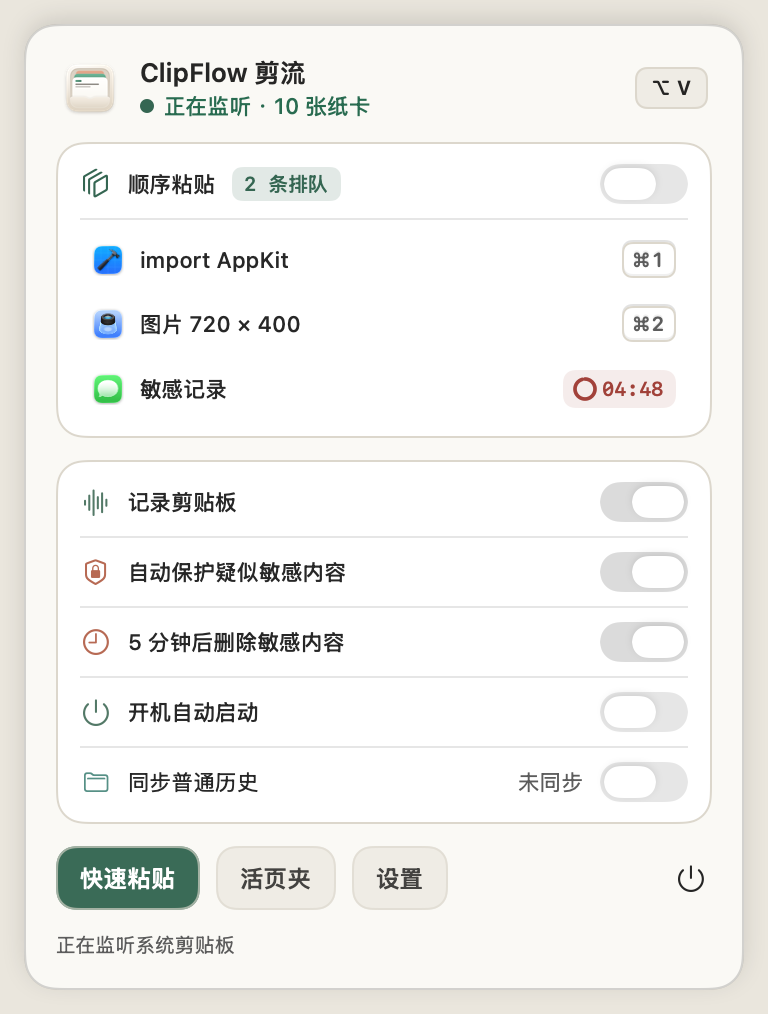
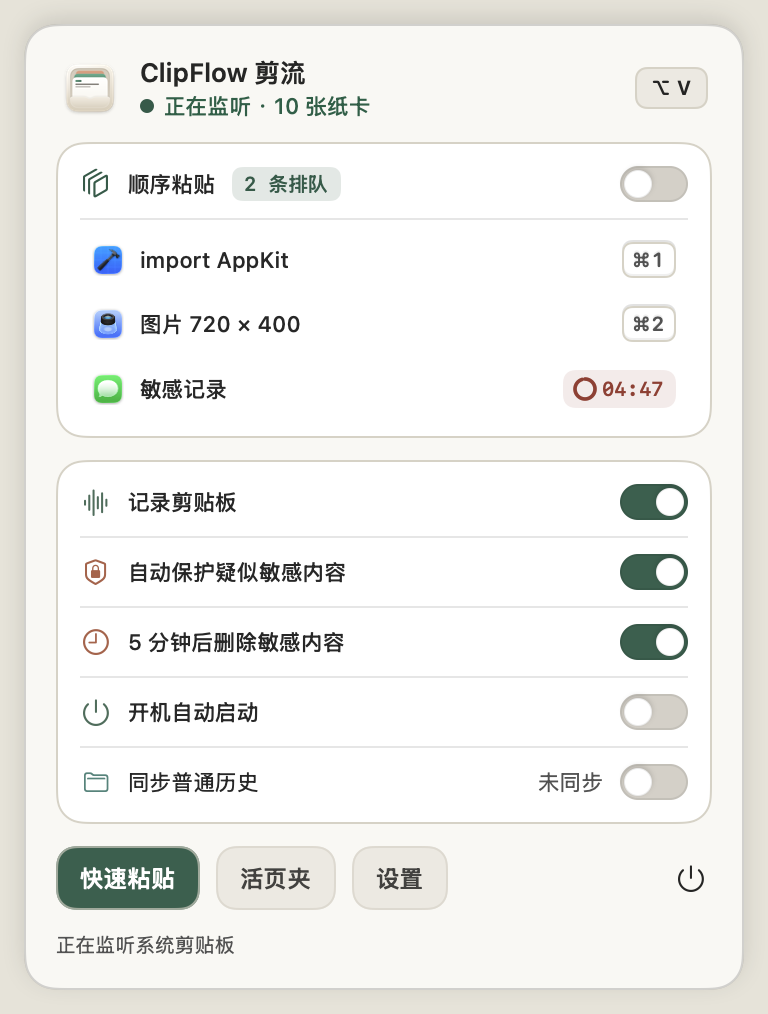
feat(ui): use Celadon Sage theme green for all switches and release v0.3.3

diff --git a/Sources/ClipFlowApp/Views/Chrome/FolioChrome.swift b/Sources/ClipFlowApp/Views/Chrome/FolioChrome.swift
@@ -108,6 +108,116 @@ private struct FolioButtonBody: View {
     }
 }
 
+// MARK: - Folio Celadon Switch Toggle Style
+
+struct FolioSwitchToggleStyle: ToggleStyle {
+    var showsLabel: Bool = false
+
+    func makeBody(configuration: Configuration) -> some View {
+        let control = Button {
+            configuration.isOn.toggle()
+        } label: {
+            EmptyView()
+        }
+        .buttonStyle(FolioSwitchTrackButtonStyle(isOn: configuration.isOn))
+        .accessibilityValue(configuration.isOn ? "开启" : "关闭")
+
+        if showsLabel {
+            HStack(spacing: 8) {
+                configuration.label
+                control
+            }
+        } else {
+            control
+        }
+    }
+}
+
+private struct FolioSwitchTrackButtonStyle: ButtonStyle {
+    let isOn: Bool
+
+    func makeBody(configuration: Configuration) -> some View {
+        FolioSwitchTrackView(isOn: isOn, isPressed: configuration.isPressed)
+    }
+}
+
+private struct FolioSwitchTrackView: View {
+    let isOn: Bool
+    let isPressed: Bool
+
+    @Environment(\.colorScheme) private var colorScheme
+    @Environment(\.accessibilityReduceMotion) private var reduceMotion
+    @Environment(\.isEnabled) private var isEnabled
+    @State private var isHovered = false
+
+    private let trackWidth: CGFloat = 34
+    private let trackHeight: CGFloat = 18
+    private let thumbInset: CGFloat = 2
+    private var thumbDiameter: CGFloat { trackHeight - thumbInset * 2 }
+
+    private var trackFill: Color {
+        isOn
+            ? FolioTheme.switchTrackOn(for: colorScheme)
+            : FolioTheme.switchTrackOff(for: colorScheme)
+    }
+
+    private var trackBorder: Color {
+        if isOn {
+            return colorScheme == .dark ? Color.white.opacity(0.10) : Color.black.opacity(0.08)
+        }
+        if isHovered {
+            return FolioTheme.strongHairline(for: colorScheme)
+        }
+        return colorScheme == .dark ? Color.white.opacity(0.12) : Color.black.opacity(0.08)
+    }
+
+    var body: some View {
+        let trackShape = Capsule(style: .circular)
+        let thumbShape = Capsule(style: .circular)
+        let thumbWidth: CGFloat = isPressed && isEnabled ? thumbDiameter + 2.5 : thumbDiameter
+
+        ZStack(alignment: isOn ? .trailing : .leading) {
+            trackShape
+                .fill(trackFill)
+                .overlay {
+                    if isHovered && isEnabled && !isPressed {
+                        trackShape.fill(
+                            isOn
+                                ? Color.white.opacity(colorScheme == .dark ? 0.08 : 0.07)
+                                : Color.primary.opacity(colorScheme == .dark ? 0.06 : 0.04)
+                        )
+                    }
+                }
+                .overlay(trackShape.strokeBorder(trackBorder, lineWidth: 1))
+
+            thumbShape
+                .fill(Color.white.opacity(isEnabled ? 1 : 0.72))
+                .overlay(
+                    thumbShape
+                        .strokeBorder(
+                            Color.black.opacity(colorScheme == .dark ? 0.22 : 0.08),
+                            lineWidth: 0.5
+                        )
+                )
+                .shadow(
+                    color: Color.black.opacity(colorScheme == .dark ? 0.36 : 0.16),
+                    radius: 1.5,
+                    x: 0,
+                    y: 0.75
+                )
+                .frame(width: thumbWidth, height: thumbDiameter)
+                .padding(thumbInset)
+        }
+        .frame(width: trackWidth, height: trackHeight)
+        .opacity(isEnabled ? 1 : 0.48)
+        .contentShape(trackShape)
+        .animation(reduceMotion ? nil : ClipFlowMotion.selection, value: isOn)
+        .animation(reduceMotion ? nil : ClipFlowMotion.press, value: isPressed)
+        .animation(reduceMotion ? nil : .easeOut(duration: isHovered ? 0.15 : 0.12), value: isHovered)
+        .onHover { isHovered = $0 }
+    }
+}
+
 // MARK: - Calm Folio Color Tokens (Warm Rice-Paper Linen & Quiet Graphite)
 
 enum FolioTheme {
@@ -192,6 +302,21 @@ enum FolioTheme {
         scheme == .dark
             ? Color(red: 0.467, green: 0.725, blue: 0.624) // #77B99F
             : Color(red: 0.200, green: 0.400, blue: 0.318) // #336651
+    }
+
+    /// Switch track fill when enabled: exact Celadon Sage in Light Mode (matching primary buttons),
+    /// lifted Celadon Sage in Dark Mode for >= 3:1 contrast against dark card surfaces and white knob.
+    static func switchTrackOn(for scheme: ColorScheme) -> Color {
+        scheme == .dark
+            ? Color(red: 0.278, green: 0.514, blue: 0.427) // #47836D
+            : primaryAccent(for: .light)                 // #386B56
+    }
+
+    /// Switch track fill when off: warm ceramic stone in Light Mode, translucent graphite in Dark Mode.
+    static func switchTrackOff(for scheme: ColorScheme) -> Color {
+        scheme == .dark
+            ? Color.white.opacity(0.16)
+            : Color(red: 0.855, green: 0.839, blue: 0.808) // #DAD6CE
     }
 
     /// Distinct Morandi mineral tints for inactive protruding spine tabs (high legibility in Dark Mode, zero violet).

diff --git a/Sources/ClipFlowApp/Views/Menu/MenuBarView.swift b/Sources/ClipFlowApp/Views/Menu/MenuBarView.swift
@@ -42,8 +42,8 @@ struct MenuBarView: View {
                     Spacer(minLength: 6)
                     Toggle("顺序粘贴", isOn: $pasteStack.autoCollectEnabled)
                         .labelsHidden()
-                        .toggleStyle(.switch)
-                        .controlSize(.small)
+                        .toggleStyle(FolioSwitchToggleStyle())
+                        .accessibilityLabel("顺序粘贴")
                 }
                 .frame(height: 34)
 
@@ -131,7 +131,8 @@ struct MenuBarView: View {
                     Text(store.iCloudSyncStatusValue).foregroundStyle(store.iCloudSyncTint(for: colorScheme))
                     Toggle(SharedSettingsCopy.syncPlainHistory, isOn: Binding(get: { store.iCloudSyncEnabled },
                         set: { store.setICloudSyncEnabled($0) }))
-                        .labelsHidden().toggleStyle(.switch).controlSize(.small)
+                        .labelsHidden()
+                        .toggleStyle(FolioSwitchToggleStyle())
                         .accessibilityLabel(SharedSettingsCopy.syncPlainHistory)
                 }
                 .font(.system(size: 11)).frame(height: 34)
@@ -194,7 +195,10 @@ struct MenuBarView: View {
             Image(systemName: icon).foregroundStyle(tint).frame(width: 16)
             Text(title).font(.system(size: 11, weight: .medium))
             Spacer(minLength: 8)
-            Toggle(title, isOn: isOn).labelsHidden().toggleStyle(.switch).controlSize(.small)
+            Toggle(title, isOn: isOn)
+                .labelsHidden()
+                .toggleStyle(FolioSwitchToggleStyle())
+                .accessibilityLabel(title)
         }
         .frame(height: 34)
     }

diff --git a/Tests/ClipFlowAppTests/MainWindowTests.swift b/Tests/ClipFlowAppTests/MainWindowTests.swift
@@ -385,4 +385,23 @@ final class MainWindowTests: XCTestCase {
         XCTAssertNotNil(window.standardWindowButton(.closeButton))
         window.close()
     }
+
+    func testFolioSwitchUsesThemeCeladonGreenAndCompactTrackSize() throws {
+        for scheme in [ColorScheme.light, .dark] {
+            let color = try XCTUnwrap(NSColor(FolioTheme.switchTrackOn(for: scheme)).usingColorSpace(.sRGB))
+            XCTAssertGreaterThan(color.greenComponent, color.blueComponent,
+                "Switch ON track should use theme Celadon Sage green, not system blue (\(scheme))")
+            XCTAssertGreaterThan(color.greenComponent, color.redComponent,
+                "Switch ON track should be green-dominant (\(scheme))")
+        }
+
+        let host = NSHostingView(
+            rootView: Toggle("记录剪贴板", isOn: .constant(true))
+                .labelsHidden()
+                .toggleStyle(FolioSwitchToggleStyle())
+        )
+        let size = host.fittingSize
+        XCTAssertEqual(size.width, 34, accuracy: 0.5)
+        XCTAssertEqual(size.height, 18, accuracy: 0.5)
+    }
 }

diff --git a/Sources/ClipFlowApp/Views/Settings/SettingsCards.swift b/Sources/ClipFlowApp/Views/Settings/SettingsCards.swift
@@ -122,8 +122,7 @@ struct SettingsToggleCard: View {
                 Toggle("", isOn: $isOn)
                     .labelsHidden()
                     .accessibilityLabel(title)
-                    .toggleStyle(.switch)
-                    .controlSize(.small)
+                    .toggleStyle(FolioSwitchToggleStyle())
             }
             .padding(.horizontal, 0)
             .padding(.vertical, 10)

diff --git a/Sources/ClipFlowApp/SettingsView.swift b/Sources/ClipFlowApp/SettingsView.swift
@@ -467,7 +467,6 @@ private struct LibraryViewModeControl: View {
 private func settingsToggle(_ title: String, isOn: Binding<Bool>) -> some View {
     Toggle(title, isOn: isOn)
         .labelsHidden()
-        .toggleStyle(.switch)
-        .controlSize(.small)
+        .toggleStyle(FolioSwitchToggleStyle())
         .accessibilityLabel(title)
 }

diff --git a/README.md b/README.md
@@ -5,7 +5,7 @@
   <p>原生 macOS 剪贴板与灵感归档工具，融合陶纸活页叠卡盒、120Hz 物理动效、扇形快捷粘贴、表格网格与常用片段。</p>
   <p>
     <a href="https://github.com/FOREST227/ClipFlow/releases/latest">下载最新版</a>
-    · <a href="docs/releases/v0.3.2.md">v0.3.2 更新说明</a>
+    · <a href="docs/releases/v0.3.3.md">v0.3.3 更新说明</a>
     · <a href="https://github.com/FOREST227/ClipFlow/issues">反馈问题</a>
   </p>
   <p>macOS 12+ · Apple 芯片 / Intel / 通用版本 · 中文界面 · 本地优先存储</p>
@@ -31,7 +31,7 @@
 
 ## 界面一览
 
-以下截图均由 `v0.3.1` 真实应用视图与演示数据直接渲染生成，不包含任何个人剪贴历史。
+以下截图均由当前版本真实应用视图与演示数据直接渲染生成，不包含任何个人剪贴历史。
 
 ### 5 卡扇形悬浮轮播与菜单栏
 
@@ -82,9 +82,9 @@
 
 | 你的 Mac | 安装包 |
 | --- | --- |
-| Apple 芯片 | [ClipFlow-v0.3.2-arm64.dmg](https://github.com/FOREST227/ClipFlow/releases/download/v0.3.2/ClipFlow-v0.3.2-arm64.dmg) |
-| Intel 处理器 | [ClipFlow-v0.3.2-x86_64.dmg](https://github.com/FOREST227/ClipFlow/releases/download/v0.3.2/ClipFlow-v0.3.2-x86_64.dmg) |
-| 两种架构通用，或不确定芯片类型 | [ClipFlow-v0.3.2-universal.dmg](https://github.com/FOREST227/ClipFlow/releases/download/v0.3.2/ClipFlow-v0.3.2-universal.dmg) |
+| Apple 芯片 | [ClipFlow-v0.3.3-arm64.dmg](https://github.com/FOREST227/ClipFlow/releases/download/v0.3.3/ClipFlow-v0.3.3-arm64.dmg) |
+| Intel 处理器 | [ClipFlow-v0.3.3-x86_64.dmg](https://github.com/FOREST227/ClipFlow/releases/download/v0.3.3/ClipFlow-v0.3.3-x86_64.dmg) |
+| 两种架构通用，或不确定芯片类型 | [ClipFlow-v0.3.3-universal.dmg](https://github.com/FOREST227/ClipFlow/releases/download/v0.3.3/ClipFlow-v0.3.3-universal.dmg) |
 
 1. 打开 `.dmg`，将 **ClipFlow** 拖入“应用程序”。
 2. 从“应用程序”启动，点击菜单栏中的 ClipFlow 图标。
@@ -140,6 +140,7 @@
 
 遇到问题欢迎 [提交 Issue](https://github.com/FOREST227/ClipFlow/issues)，附上 macOS 版本、芯片型号、应用版本及复现步骤。分享截图前请遮住私人剪贴内容。
 
+- [v0.3.3 更新说明](docs/releases/v0.3.3.md)
 - [v0.3.2 更新说明](docs/releases/v0.3.2.md)
 - [开发、测试与打包](docs/development.md)
 - [离线渲染组件与许可证](Sources/ClipFlowApp/Renderer/NOTICE.txt)

diff --git a/docs/releases/v0.3.3.md b/docs/releases/v0.3.3.md
@@ -1,0 +1,18 @@
+# ClipFlow v0.3.3
+
+将应用内全部开关控件的开启强调色统一为 ClipFlow 主题的**青瓷绿（Celadon Sage）**，消除偏好设置与菜单栏面板中残留的 macOS 系统默认蓝，令浅色陶纸与深色暖墨主题下的控件视觉语言更加一致。
+
+## 本次更新
+
+- **全新主题青瓷绿开关样式（`FolioSwitchToggleStyle`）**：
+  - 浅色模式开启态采用与「保存规则」「快速粘贴」主按钮一致的青瓷绿 `#386B56`，关闭态采用暖陶石底色 `#DAD6CE`。
+  - 深色模式开启态采用提亮青瓷绿 `#47836D`，在深色卡片与白色滑块间保持清晰可读对比度。
+  - 采用同心正圆端帽胶囊造型，支持悬停高亮、按压滑块微拉伸与平滑过渡动效，并尊重系统「减弱动态效果」设置。
+- **全量覆盖偏好设置与菜单栏开关**：统一更新偏好设置（通用 / 隐私 / 同步）、菜单栏弹窗（顺序粘贴与状态开关）及设置卡片中的全部开关控件。
+- **文档截图与测试更新**：刷新 `README.md` 菜单栏与偏好设置演示截图，并补充开关主题色与尺寸单元测试 `testFolioSwitchUsesThemeCeladonGreenAndCompactTrackSize`。
+
+## 下载与校验
+
+- Apple 芯片：`ClipFlow-v0.3.3-arm64.dmg`
+- Intel 处理器：`ClipFlow-v0.3.3-x86_64.dmg`
+- 通用安装包：`ClipFlow-v0.3.3-universal.dmg`
